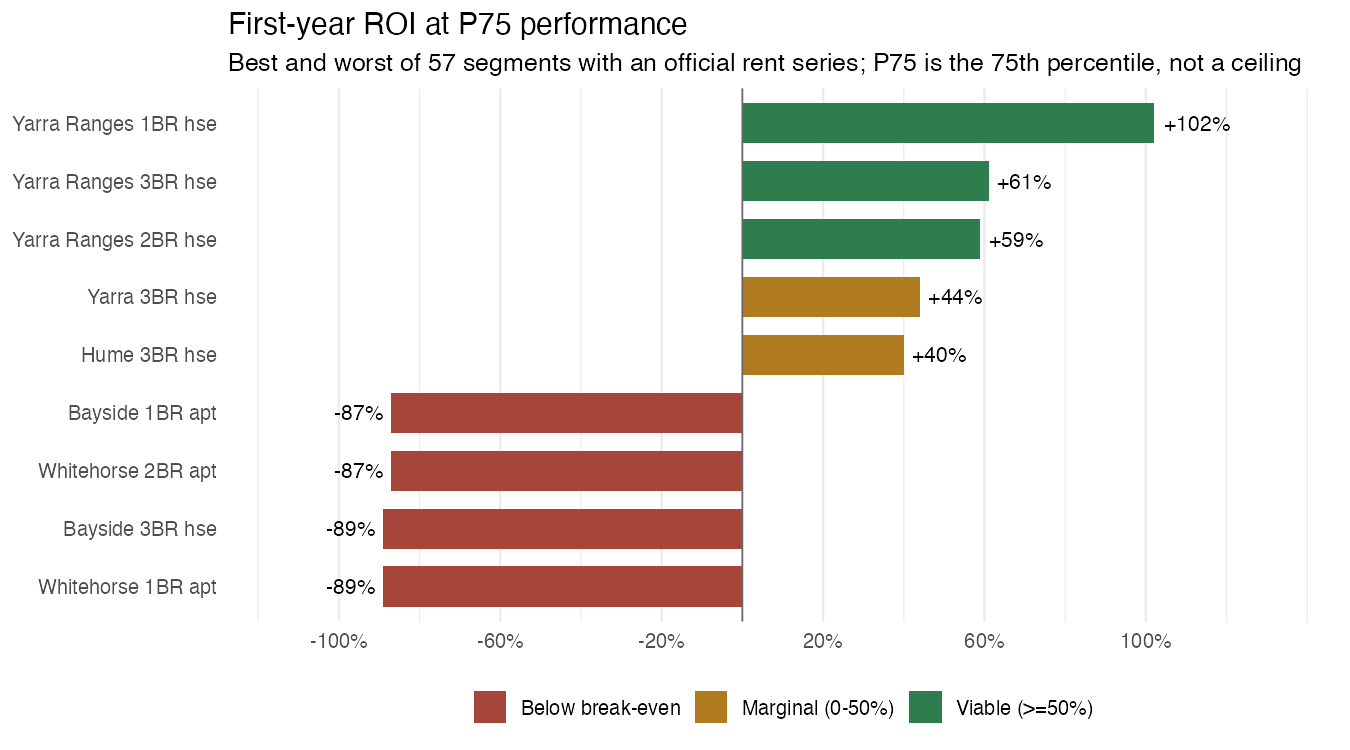
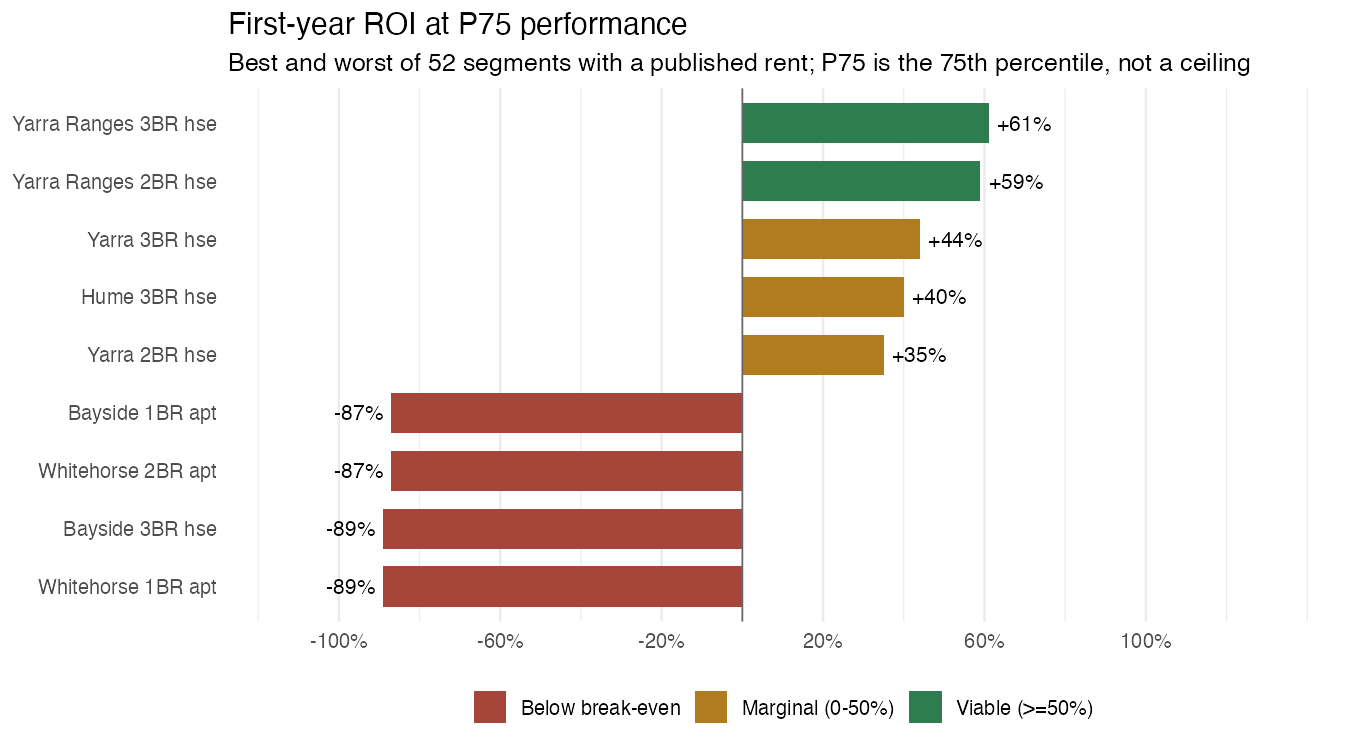
Align scope on the configurations DFFH publishes a rent for
The materials had drifted apart: the research question said 1-2 bedrooms, the
funnel counted 57 segments including 3BR, the evidence slide led on a 3BR
result, and the Q&A called 3BR out of scope. Worse, the headline segment was a
1BR house priced on a rent we derived ourselves.

Scope is now set by the cost data: the four configurations with a published
DFFH rent - 1BR and 2BR flats, 2BR and 3BR houses - make up the main screen of
52 segments, and 1BR houses move to sensitivity. Nothing in the recommendation
depends on a derived rent, and the scope was chosen from the cost data rather
than from which segments performed well.

The per-property capital ceiling becomes an explicit decision instead of a
bedroom filter, which is what it always was in substance: $20k reaches 12
segments and none clear, $26k reaches 31 and one clears, $36k reaches 52 and
two clear. The extra $8.1k returns about $5.4k a year - a capital-allocation
recommendation the client can act on.

diff --git a/reports/data-notes.md b/reports/data-notes.md
@@ -124,9 +124,18 @@ exists or can be derived on a defensible basis:
   step rather than a bedroom step, on a much smaller base (961 listings).
 
 Revenue percentiles come from the active, priced subset of each segment; where
-that subset is small the percentile is indicative only. `in_client_scope` marks
-the 1-2 bedroom brief, with 3-bedroom segments screened alongside as a
-documented scope test rather than silently dropped.
+that subset is small the percentile is indicative only. `dffh_published` marks the four
+configurations DFFH publishes a rent for - 1BR flat, 2BR flat, 2BR house, 3BR
+house - which form the main screen. One-bedroom houses use a derived rent and
+are reported as sensitivity rather than carried into the recommendation, so no
+segment in the main screen rests on a cost we had to estimate.
+
+The per-property capital ceiling is treated as a decision rather than a fixed
+constraint, because it determines which market the operator can reach at all:
+$20k reaches 12 segments and none clear the hurdle; $26k reaches 31 and one
+clears; $36k reaches 52 and two clear, the additional one carrying the highest
+net cash in the screen. The marginal $8.1k of capital returns about $5.4k a
+year.
 
 At P75 performance under baseline costs, 3 of 57 segments clear a 50% first-year
 cash-on-cash return, 7 more are positive, and 47 sit below break-even.
